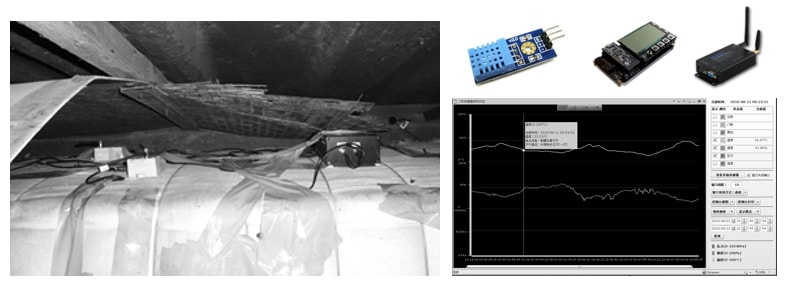
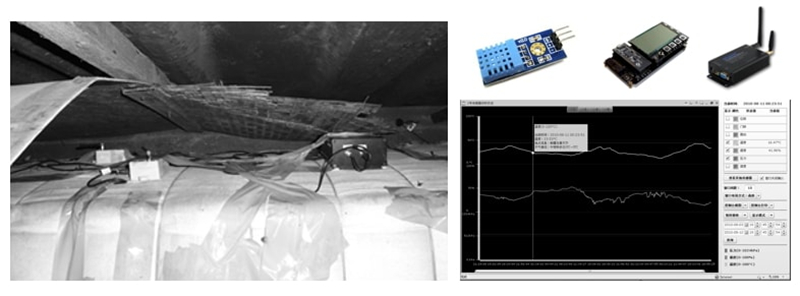
resize all image width

diff --git a/Demo.md b/Demo.md
@@ -50,5 +50,10 @@ title: BJTU Synergy Lab 系统展示
 
 ----------
 
+- **面向异构空间信息网络的联合仿真验证系统（应用领域：军工领域）**
+![](sim.jpg)
+
+----------
+
 - **基于iBeacon/Eddystone的室内位置服务App（Google公司支持的大学生创新创业作品）**
 ![](dachuang.jpg)
